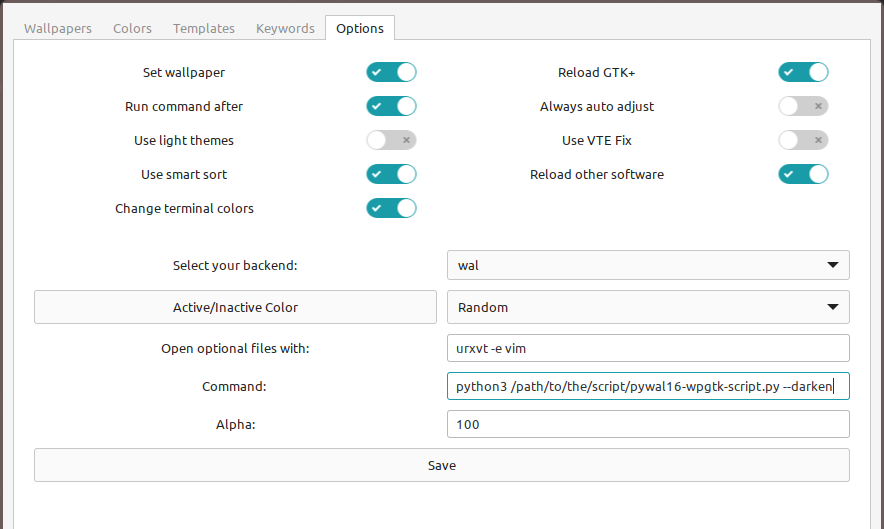
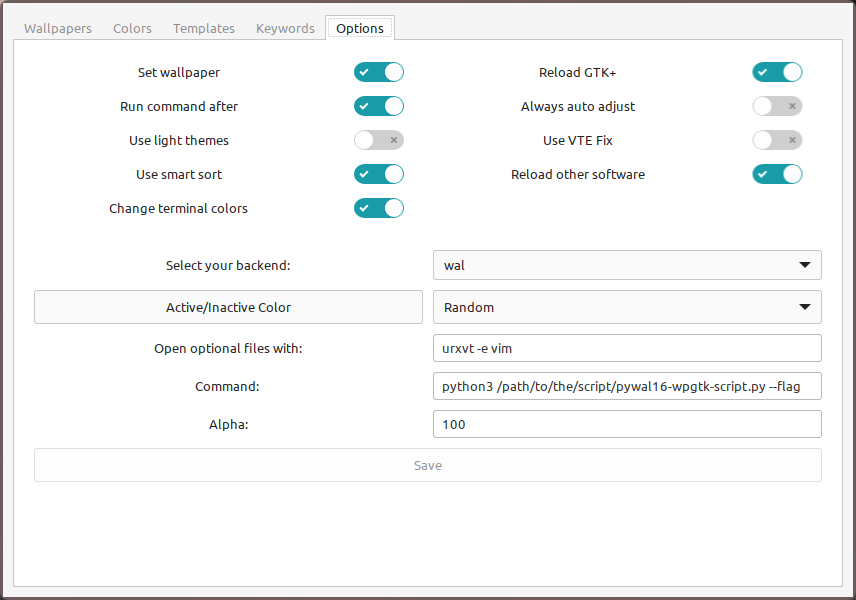
fix type README file, adding new img

diff --git a/README.md b/README.md
@@ -18,28 +18,25 @@ execute_cmd = true
 And set the `command` value to the path of the python script `pywal16-wpgtk-script.py`.
 
 ```bash
-command = python3 /path/where/you/clone/the/repoo/pywal16-wpgtk-script.py --flag
-```
-
-## Usage 
-
-By simply passing the flags to the scripts you can ither choose between `darken` or `lighten` 
-
-```bash
-pywal16-wpgtk-script.py [--darken | --lighten] [-d | -l]
-
-options:
-    -d --darken	    Use 16 color output "darken"
-    -l --ligth	    Use 16 color output "lighten"
-```
-
-For example you can edit the flag value of the script.
-
-```bash
-command = python3 /path/to/the/script/pywal16-wpgtk-script.py --darken
+command = python3 /path/where/you/clone/the/repo/pywal16-wpgtk-script.py --flag
 ```
 
 Or directly use the `Options` tab in the wpg GUI by enabling the `Run command after` 
-option and editing the `command` entry by setting the the path of the python script.
+option and editing the `Command` entry by setting the the path of the python script.
 
 <img src="./wpgtk-gui-example.png" alt="wpgtk gui example" width="700">
+
+
+## Usage 
+
+By simply passing the flag to the script you can ither choose between `darken` or `lighten` 
+
+```bash
+pywal16-wpgtk-script.py [--darken | -d | --lighten | -l]
+
+options:
+    -d --darken	    Use 16 color output "darken"
+    -l --ligthen    Use 16 color output "lighten"
+```
+
+For example you can edit the flag value of the script.
